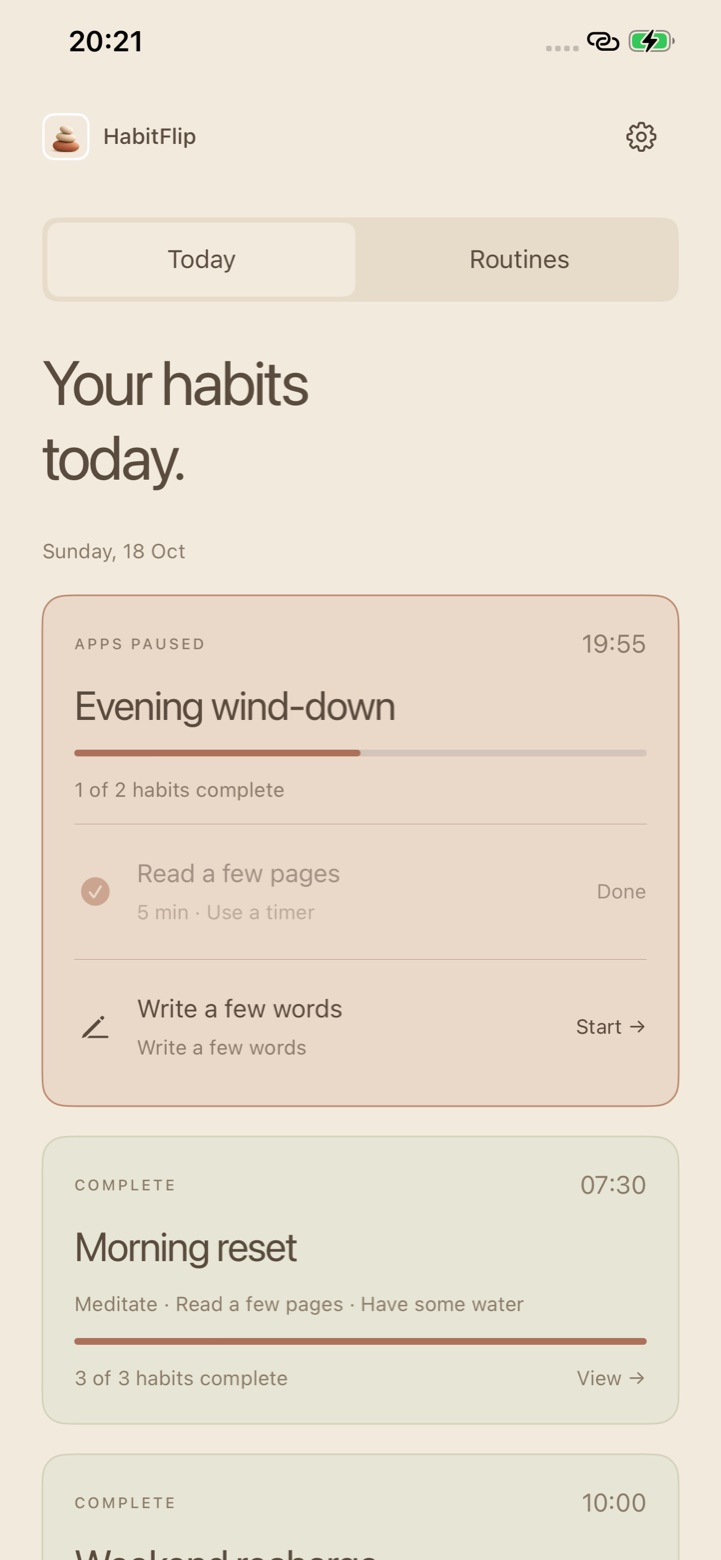
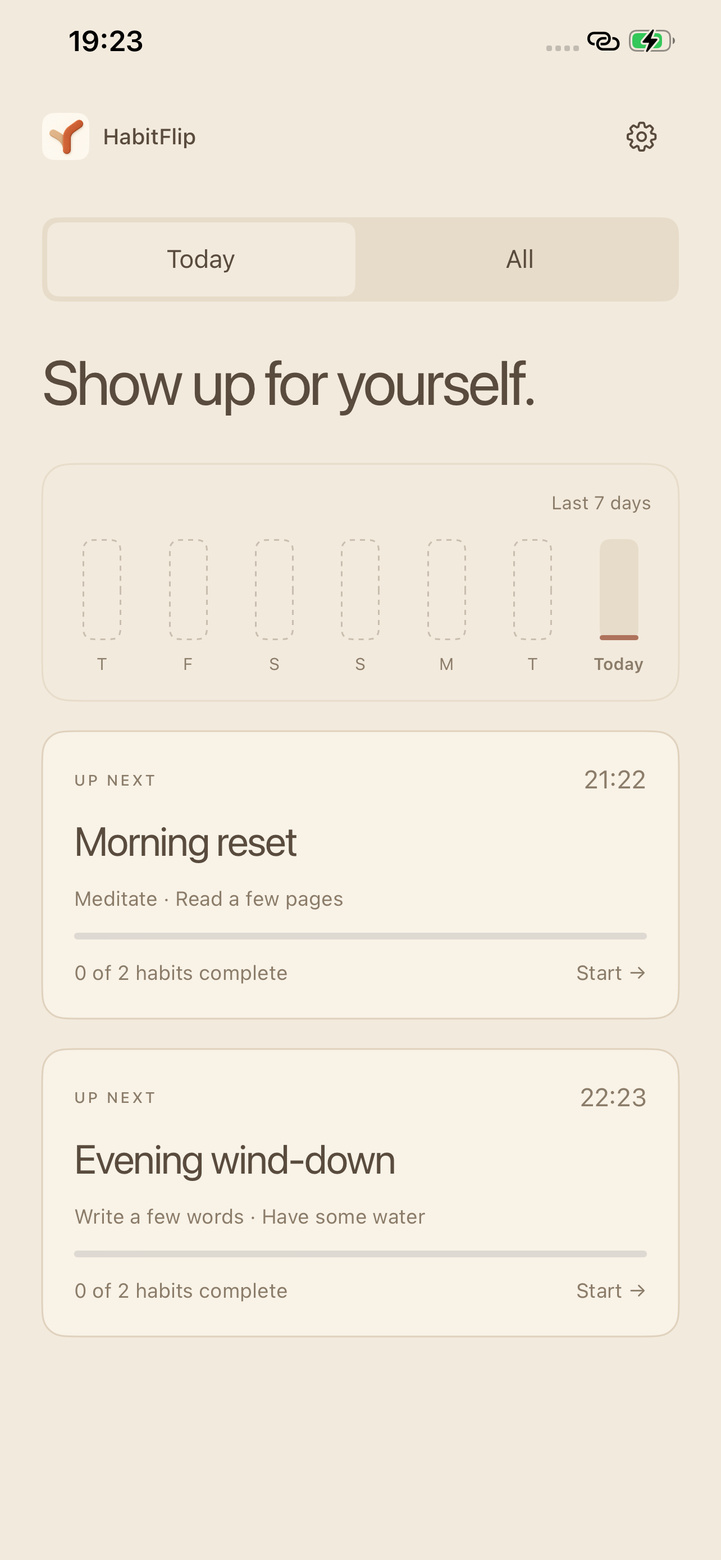
Update HabitFlip website for current onboarding and routine behavior

diff --git a/habitflip/index.html b/habitflip/index.html
@@ -12,15 +12,15 @@
 <header><div class="wrap"><div class="top"><a class="brand" href="./"><img src="assets/app-icon-256.png" alt="" width="42" height="42">HabitFlip</a>
 <nav aria-label="Main navigation"><a href="./#how-it-works">How it works</a><a href="support.html">Support</a><a href="privacy.html">Privacy</a></nav></div></div></header>
 <main id="main" class="wrap">
-<section class="hero"><div><p class="eyebrow">A little space for you</p><h1>Small habits.<br>More room for your day.</h1><p class="lead">Give your habits a place in your day. Let distracting apps wait.</p><p>Create a routine, choose your habits and apps, and set the days and time. Keep a few different routines for the moments that matter to you.</p><a class="button" href="#how-it-works">See how HabitFlip works ↗</a><p class="availability">iOS 17 or later · Preparing for the App Store</p></div><figure class="hero-art"><img src="assets/app-icon-1024.png" alt="Three warm, textured stones resting in a balanced stack" width="1024" height="1024" fetchpriority="high"><figcaption>A little space. A little balance.</figcaption></figure></section>
-<section class="section" id="screens"><div class="section-heading"><p class="eyebrow">See it in use</p><h2>A calm place for<br>your routines.</h2><p class="quiet">Screens from the iPhone app, showing sample routines.</p></div><div class="shots"><figure class="shot"><img src="assets/screenshots/today.jpg" width="721" height="1560" loading="lazy" alt="HabitFlip Today screen showing an Evening wind-down routine with its apps paused and one of two habits done, and a completed Morning reset routine"><figcaption><strong>Today</strong>Your habits for the day, with each routine’s progress and whether its apps are paused.</figcaption></figure><figure class="shot"><img src="assets/screenshots/routines.jpg" width="721" height="1560" loading="lazy" alt="HabitFlip Routines screen listing Evening wind-down, Morning reset, Weekend recharge and Sunday reflection with their schedules and progress"><figcaption><strong>Routines</strong>Every routine in one place, each with its own schedule and guided period.</figcaption></figure><figure class="shot"><img src="assets/screenshots/routine.jpg" width="721" height="1560" loading="lazy" alt="HabitFlip Morning reset routine screen showing 07:30 every day, a 30 day streak, three completed habits and Safari as the app to pause"><figcaption><strong>A routine</strong>Time, days, habits and the apps to pause, all editable in one screen.</figcaption></figure><figure class="shot"><img src="assets/screenshots/habits.jpg" width="721" height="1560" loading="lazy" alt="HabitFlip habit chooser listing Meditate, Stretch or move, Read a few pages, Write a few words, Take medicine and Have some water"><figcaption><strong>Choose habits</strong>Pick from meditation, movement, reading, writing, water, medicine, or your own.</figcaption></figure><figure class="shot"><img src="assets/screenshots/writing.jpg" width="721" height="1560" loading="lazy" alt="HabitFlip Write a few words screen with a short reflection typed in and a Finish routine button"><figcaption><strong>Do the habit</strong>Write a few words, then finish the routine. Your writing isn’t saved.</figcaption></figure><figure class="shot"><img src="assets/screenshots/complete.jpg" width="721" height="1560" loading="lazy" alt="HabitFlip Routine complete screen saying your selected apps are available again"><figcaption><strong>Apps available</strong>When the habits are done, your selected apps are available again.</figcaption></figure></div></section>
+<section class="hero"><div><p class="eyebrow">A little space for you</p><h1>Small habits.<br>More room for your day.</h1><p class="lead">Give your habits a place in your day. Let distracting apps wait.</p><p>Choose your habits, set the days and start time, name your routine, and choose which apps to pause. Keep different routines for the moments that matter to you.</p><a class="button" href="#how-it-works">See how HabitFlip works ↗</a><p class="availability">iOS 17 or later · Preparing for the App Store</p></div><figure class="hero-art"><img src="assets/app-icon-1024.png" alt="HabitFlip app icon" width="1024" height="1024" fetchpriority="high"><figcaption>A little space. A little balance.</figcaption></figure></section>
+<section class="section" id="screens"><div class="section-heading"><p class="eyebrow">See it in use</p><h2>A calm place for<br>your routines.</h2><p class="quiet">Screens from the iPhone app, showing sample routines.</p></div><div class="shots"><figure class="shot"><img src="assets/screenshots/today.jpg" width="721" height="1560" loading="lazy" alt="HabitFlip Today dashboard with weekly progress and two sample routines."><figcaption><strong>Today</strong>Your habits for the day, with each routine’s progress and whether its apps are paused.</figcaption></figure><figure class="shot"><img src="assets/screenshots/routines.jpg" width="721" height="1560" loading="lazy" alt="HabitFlip All tab listing Morning reset and Evening wind-down with their schedules."><figcaption><strong>All routines</strong>Every routine in one place, each with its own schedule and guided period.</figcaption></figure><figure class="shot"><img src="assets/screenshots/routine.jpg" width="721" height="1560" loading="lazy" alt="HabitFlip Edit your routine screen with editable name, schedule, habits and selected apps."><figcaption><strong>A routine</strong>Review your schedule and habits, or add apps to pause.</figcaption></figure><figure class="shot"><img src="assets/screenshots/habits.jpg" width="721" height="1560" loading="lazy" alt="HabitFlip habit chooser with Read a few pages selected and Choose when available."><figcaption><strong>Choose habits</strong>Pick from meditation, movement, reading, writing, water, medicine, or your own.</figcaption></figure><figure class="shot"><img src="assets/screenshots/writing.jpg" width="721" height="1560" loading="lazy" alt="HabitFlip Write a few words screen with a sample reflection and Finish routine button."><figcaption><strong>Do the habit</strong>Write a few words, then finish the routine. Your writing isn’t saved.</figcaption></figure><figure class="shot"><img src="assets/screenshots/complete.jpg" width="721" height="1560" loading="lazy" alt="HabitFlip Routine complete screen confirming the sample routine is complete."><figcaption><strong>Apps available</strong>When the habits are done, your selected apps are available again.</figcaption></figure></div></section>
 <section class="section" id="how-it-works"><div class="section-heading"><p class="eyebrow">Make room for a routine</p><h2>Your habits, at your pace.</h2></div><div class="steps">
-<article class="step"><span class="number">01</span><h3>Make it yours.</h3><p>Choose habits, a schedule, and a 30- or 60-day guided period. Give each routine its own name and selected apps.</p></article>
+<article class="step"><span class="number">01</span><h3>Make it yours.</h3><p>Choose your habits, days and start time, then give your routine a name. Your guided streak starts at 30 scheduled days by default, or you can choose 60. Completion ticks show which setup fields are ready.</p></article>
 <article class="step"><span class="number">02</span><h3>Let your apps wait.</h3><p>Grant Screen Time access and choose apps or categories in Apple’s system picker. On scheduled days, HabitFlip pauses those apps while your routine is due.</p></article>
-<article class="step"><span class="number">03</span><h3>Finish your routine.</h3><p>Complete the chosen habits and confirm the final step. A final timer has a separate Finish routine button. Apps shared with another unfinished routine stay paused.</p></article></div></section>
-<section class="section activities"><div><p class="eyebrow">Something grounding</p><h2>A few moments.<br>A habit of your own.</h2><p>Use Today to see what’s due and Routines to manage your different routines and progress.</p><p class="quiet">Keep a timed habit’s screen open. Leaving or backgrounding resets an unfinished timer.</p></div><ul class="activity-list"><li>Meditation <span>5, 10, or 15 minutes<br>Breathing animation and bundled stream audio</span></li><li>Stretch or move <span>A 3-minute break</span></li><li>Read a few pages <span>5 minutes with your own book</span></li><li>Write a few words <span>Temporary reflection<br>Your words aren’t saved</span></li><li>Water and medicine <span>Self-confirmed habits</span></li><li>A custom habit <span>A timer, confirmation,<br>or short checklist</span></li></ul></section>
+<article class="step"><span class="number">03</span><h3>Finish your routine.</h3><p>Complete your chosen habits and confirm the final step. If your last habit is timed, tap Finish routine after the timer ends. A Lifeline can excuse a routine for the day; an unfinished pause ends at midnight and the day counts as missed. Apps shared with another active routine can stay paused.</p></article></div></section>
+<section class="section activities"><div><p class="eyebrow">Something grounding</p><h2>A few moments.<br>A habit of your own.</h2><p>Use Today to see what's due and All to manage your routines and progress.</p><p class="quiet">Leaving a timed habit's screen or backgrounding the app pauses the timer. Return to resume it or start over.</p></div><ul class="activity-list"><li>Meditation <span>5, 10, or 15 minutes<br>Breathing animation and bundled stream audio</span></li><li>Stretch or move <span>A 3-minute break</span></li><li>Read a few pages <span>5 minutes with your own book</span></li><li>Write a few words <span>Temporary reflection<br>Your words aren’t saved</span></li><li>Water and medicine <span>Self-confirmed habits</span></li><li>A custom habit <span>A timer or completion checkbox</span></li></ul></section>
 <section class="section"><div class="section-heading"><p class="eyebrow">Support that changes with you</p><h2>Practice with guidance.<br>Keep going independently.</h2><p>Track your routine’s progress through its guided period. Afterward, that routine moves into independent practice without its regular app pauses. App pauses can return after missed scheduled days; the app explains the restart rules for your routine.</p><p>Reminders are optional. Choose Yes or Not now while setting up a routine, and manage notification permission from App settings. Reminder frequency reduces during independent practice.</p></div></section>
-<section class="section privacy-band"><div><p class="eyebrow">Your habits, your device</p><h2>Room for you.<br>No account required.</h2></div><div><p>No ads or analytics SDKs. Routine definitions, app selections, and progress stay on your device. HabitFlip has no app-operated backend.</p><p>Your reflection is cleared when you finish, leave its screen, or background the app. It is not a saved journal.</p><a href="privacy.html">Read the privacy policy ↗</a></div></section>
-<section class="section"><div class="section-heading"><p class="eyebrow">On your terms</p><h2>A helpful boundary.<br>You’re still in charge.</h2><p>HabitFlip supports voluntary self-control. Activities are timed or self-reported, and scheduled starts depend on iOS background delivery. Website blocking is not supported.</p><p>When no routine is holding apps paused, App settings lets you revoke Screen Time access. You also retain control of authorization through iOS.</p><p>The medicine habit only confirms a dose already due under your usual routine. It gives no medical or dosing advice.</p><a class="button" href="support.html">Get help and answers ↗</a></div></section>
+<section class="section privacy-band"><div><p class="eyebrow">Your habits, your device</p><h2>Room for you.<br>No account required.</h2></div><div><p>No ads or analytics SDKs. Routine definitions, app selections, and progress stay on your device. HabitFlip has no app-operated backend.</p><p>Your reflection stays in memory while the app is backgrounded. It is discarded when you finish or choose to leave without finishing. Your words are not saved as a journal.</p><a href="privacy.html">Read the privacy policy ↗</a></div></section>
+<section class="section"><div class="section-heading"><p class="eyebrow">On your terms</p><h2>A helpful boundary.<br>You’re still in charge.</h2><p>HabitFlip supports voluntary self-control. Activities are timed or self-reported, and scheduled starts depend on iOS background delivery. Website blocking is not supported.</p><p>A Lifeline lets you excuse a routine for the day and release its pause. You have three uses across a rolling seven-day window. When no routine holds apps paused, App settings lets you revoke Screen Time access. You also retain control of authorization through iOS Settings.</p><p>The medicine habit only confirms a dose already due under your usual routine. It gives no medical or dosing advice.</p><a class="button" href="support.html">Get help and answers ↗</a></div></section>
 </main>
 <div class="wrap"><footer class="footer"><span>© 2026 HabitFlip</span><nav aria-label="Footer"><a href="support.html">Support</a><a href="privacy.html">Privacy</a><a href="terms.html">Terms</a><a href="credits.html">Credits</a></nav></footer></div></body></html>

diff --git a/habitflip/support.html b/habitflip/support.html
@@ -11,16 +11,16 @@
 </head><body><a class="skip" href="#main">Skip to content</a>
 <header><div class="wrap"><div class="top"><a class="brand" href="./"><img src="assets/app-icon-256.png" alt="" width="42" height="42">HabitFlip</a>
 <nav aria-label="Main navigation"><a href="./#how-it-works">How it works</a><a href="support.html">Support</a><a href="privacy.html">Privacy</a></nav></div></div></header>
-<main id="main" class="wrap legal"><p class="eyebrow">A little help</p><h1>HabitFlip support</h1><p>For help, feedback, or privacy questions, email <a href="mailto:ammar.ofc@gmail.com">ammar.ofc@gmail.com</a>.</p><a class="button" href="mailto:ammar.ofc@gmail.com?subject=HabitFlip%20support">Email support ↗</a><p class="quiet">Include your device model, iOS version, app version, expected result, and what happened. Please leave out private reflections, medication details, and sensitive screenshots.</p><h2>Common questions</h2><details open><summary>How do I create a routine?</summary><p>Open Routines and choose New routine. Choose habits, allow Screen Time access if requested, select apps or categories in Apple’s picker, set a name and schedule, choose a 30- or 60-day guided period, and choose whether to allow reminders. Review your choices and save. Each routine can have its own habits, schedule, and app selection.</p></details>
-<details><summary>How do my apps become available again?</summary><p>Finish the habits required by the routine. Confirmation, writing, and checklist habits have a final confirmation action; if the last habit is timed, tap Finish routine after the timer ends. Another unfinished routine can keep shared apps paused. Ending a monitoring interval or simply waiting does not release an unfinished routine.</p></details>
-<details><summary>Why did my timer or writing disappear?</summary><p>Keep the habit screen open. Leaving it or backgrounding HabitFlip resets an unfinished timer and clears temporary writing and checklist responses. Meditation also stops on an audio interruption or headphone disconnection. Completed habit progress stays saved.</p></details>
+<main id="main" class="wrap legal"><p class="eyebrow">A little help</p><h1>HabitFlip support</h1><p>For help, feedback, or privacy questions, email <a href="mailto:ammar.ofc@gmail.com">ammar.ofc@gmail.com</a>.</p><a class="button" href="mailto:ammar.ofc@gmail.com?subject=HabitFlip%20support">Email support ↗</a><p class="quiet">Include your device model, iOS version, app version, expected result, and what happened. Please leave out private reflections, medication details, and sensitive screenshots.</p><h2>Common questions</h2><details open><summary>How do I create a routine?</summary><p>Tap Create my first routine, or open All and choose + New routine. Choose your habits and tap Choose when. Select the days and start time, then enter a name on Repetition &amp; Streak. The guided streak defaults to 30 scheduled days; choose 60 if you prefer. Completion ticks show which fields are ready. Pick apps becomes available once the required values are valid. Grant Screen Time access if requested, choose apps or categories in Apple's picker, and choose whether to enable reminders. Review your choices and tap Schedule Routine.</p></details>
+<details><summary>How do my apps become available again?</summary><p>Complete the habits required by the routine and confirm the final action. If the last habit is timed, tap Finish routine after the timer ends. A Lifeline can excuse the routine for the day and release its pause. An unfinished routine's pause ends at midnight, and that day counts as missed. Another routine can keep shared apps paused until its own hold ends.</p></details>
+<details><summary>What happens if I leave a timer or reflection?</summary><p>Leaving a timed habit's screen or backgrounding HabitFlip pauses the timer. Return to resume it or start over. Audio interruptions and headphone disconnection also pause meditation. Paused timers and unfinished reflection text are held in memory, so do not rely on them surviving an app restart. Reflection text stays while the app is backgrounded, but is discarded when you finish or choose to leave without finishing. Older saved checklist habits clear unfinished responses when you leave or background the app. Completed habit progress stays saved.</p></details>
 <details><summary>My scheduled routine did not start. What should I check?</summary><p>Check Screen Time access, selected apps or categories, the routine’s days and time, and whether the routine is paused or in independent practice. After a device restart, unlock it once. Reopen HabitFlip to refresh routines and repair monitoring. iOS controls background callback delivery, so scheduled starts can vary. A reminder is separate from app shielding.</p></details>
-<details><summary>Can I edit, copy, pause, or remove a routine?</summary><p>Open a routine from Routines. Its detail page provides editing controls and Routine actions for copying, pausing, and removing. Some changes are unavailable while that routine holds apps paused; finish its current habits first. Finishing one routine does not release apps held by another.</p></details>
+<details><summary>Can I edit, copy, pause, or remove a routine?</summary><p>Open All and choose a routine. If its habit screen is shown, tap Edit routine. The edit screen lets you change its name, schedule and habits, or add apps to its selection, then save your changes. Existing selected apps cannot be removed from a saved routine. It also offers Make a copy, Pause routine or Resume routine, and Remove routine. Some changes are unavailable while the routine holds apps paused. Finishing one routine does not release apps held by another.</p></details>
 <details><summary>What happens after the guided period?</summary><p>A routine moves to independent practice after its 30- or 60-day guided period. Its regular app pauses stop, reminders become less frequent, and they stop within its next 14 scheduled days. App pauses can return after missed scheduled days. Open the routine’s explanation for the applicable restart rules. Other routines can still pause apps.</p></details>
 <details><summary>How do I manage permissions and reminders?</summary><p>Open App settings from the gear icon. When no routine holds apps paused, Revoke Screen Time access opens a confirmation; Keep access cancels it. Allow Screen Time access requests permission again. Manage notifications or Turn off notifications opens iOS notification settings. During routine setup, Not now skips reminders for that routine.</p></details>
-<details><summary>I need to stop enforcement without completing my habits.</summary><p>HabitFlip is voluntary self-control. You retain control of Screen Time authorization through iOS Settings. The in-app revoke button is disabled while a routine holds apps paused. Revoking permission does not delete saved routines or requirements, and reauthorizing may restore unfinished pauses. There is no PIN or emergency-unlock button.</p></details>
+<details><summary>I need to stop enforcement without completing my habits.</summary><p>Open the active routine and tap the Lifeline control, then confirm Use Lifeline to excuse that routine for the day and release its pause. You have three Lifeline uses across a rolling seven-day window. Using one does not count as a missed day; other routines can still hold the same apps paused. HabitFlip is voluntary self-control, and you retain control of Screen Time access in iOS Settings. The in-app revoke button is unavailable while any routine holds apps paused. Revoking access does not delete routines or progress, and granting access again can restore applicable unfinished pauses.</p></details>
 <details><summary>Why do I see a storage error?</summary><p>Unlock the phone after a restart, reopen HabitFlip, and try again. If the error continues, send support its wording, your app version, and steps to reproduce, without private content. Avoid deleting the app as a first fix: Keychain data may survive reinstall.</p></details>
-<details><summary>What is stored, and how do I remove it?</summary><p>Routines, selected app tokens, and progress stay locally in a device-only shared Keychain item; migration files can remain in the shared app container. Remove inactive routines through Routine actions. There is no single erase-all-data control, and Keychain records can survive uninstall. See the privacy policy for retention details.</p></details>
+<details><summary>What is stored, and how do I remove it?</summary><p>Routines, selected app tokens, progress and Lifeline-use records stay locally in a device-only shared Keychain item. Migration files can remain in the shared app container. To remove an inactive routine, open All, choose the routine, open Edit routine if shown, and select Remove routine. There is no single erase-all-data control. Keychain records can survive uninstall. See the privacy policy for retention details.</p></details>
 <details><summary>Does the medicine habit tell me what to take?</summary><p>No. It only lets you confirm a dose already due under your existing routine. It provides no diagnosis, treatment, or dosing advice and is not a medication reminder guarantee.</p></details>
 <details><summary>What devices are supported?</summary><p>HabitFlip is for iPhone and requires iOS 17 or later. Screen Time shielding requires a compatible physical device. Final supported devices will be listed on the App Store. HabitFlip does not support website blocking.</p></details>
 <p>Read the <a href="privacy.html">privacy policy</a> and <a href="credits.html">audio credits</a>.</p></main>

diff --git a/habitflip/privacy.html b/habitflip/privacy.html
@@ -12,18 +12,18 @@
 <header><div class="wrap"><div class="top"><a class="brand" href="./"><img src="assets/app-icon-256.png" alt="" width="42" height="42">HabitFlip</a>
 <nav aria-label="Main navigation"><a href="./#how-it-works">How it works</a><a href="support.html">Support</a><a href="privacy.html">Privacy</a></nav></div></div></header>
 <main id="main" class="wrap legal">
-<p class="eyebrow">Your habits, your device</p><h1>Privacy policy</h1><p class="updated">Last updated: 18 October 2026</p>
+<p class="eyebrow">Your habits, your device</p><h1>Privacy policy</h1><p class="updated">Last updated: 28 October 2026</p>
 <p>HabitFlip is an independent app by Ammar. For privacy questions, email <a href="mailto:ammar.ofc@gmail.com">ammar.ofc@gmail.com</a>.</p>
 <p>HabitFlip requires no account and has no app-operated backend, advertising, tracking, or analytics SDKs. It does not upload your routines, app selections, habits, progress, or reflections to us.</p>
 <h2>Screen Time access</h2><p>With your permission, HabitFlip uses Apple’s Family Controls, Managed Settings, and Device Activity frameworks to pause the apps or categories you choose. Selections are opaque tokens supplied by Apple’s picker; HabitFlip does not use the separate app-and-website-usage data-access capability to obtain readable application identifiers or browsing information. Apple’s system components display selected app labels. Website blocking is not supported.</p>
 <h2>Information on your device</h2><ul>
-<li><strong>Routines and progress:</strong> routine names, habits, schedules, selected app/category tokens, reminder choices, guided-period settings, completion history, and held habit requirements are stored in a shared, device-only Keychain item. The app and its monitoring extension use the same access group. This item is accessible after the first device unlock following a restart and is not configured for iCloud Keychain synchronization.</li>
+<li><strong>Routines and progress:</strong> routine names, habits, schedules, selected app/category tokens, reminder choices, guided-period settings, completion history, held habit requirements, and Lifeline-use records are stored in a shared, device-only Keychain item. Lifeline records include the routine identifier, routine name and use date so the app can calculate the remaining allowance. The app and its monitoring extension use the same access group. This item is accessible after the first device unlock following a restart and is not configured for iCloud Keychain synchronization.</li>
 <li><strong>Shared app files:</strong> an App Group container holds migration backups and older selections, schedules, or habit definitions when present. Legacy session data may remain as a migration source.</li>
 <li><strong>Preferences:</strong> local preferences remember setup and prior Screen Time authorization.</li>
-<li><strong>Reflection and checklist input:</strong> unfinished reflection text and checklist responses are held in memory and cleared when you finish, leave the activity, or background the app. Habit completion is saved; the writing and individual checklist responses are not saved as a history.</li>
+<li><strong>Temporary activity input:</strong> unfinished reflection text, paused timer progress and unfinished responses for older saved checklist habits are held in memory. Reflection text remains while the app is backgrounded, but is discarded when you finish or choose to leave without finishing. A timer pauses when you leave its screen or background the app and can be resumed or restarted while that in-memory state remains available. Unfinished checklist responses are cleared when you leave the activity or background the app. Habit completion is saved; reflection text and individual checklist responses are not saved as a history. In-memory activity input can be lost if the app is terminated or restarted.</li>
 <li><strong>Diagnostics:</strong> local scheduling timestamps or status messages may be retained for troubleshooting. They do not include reflection text or activity responses.</li></ul>
 <h2>Optional reminders</h2><p>If you allow notifications, HabitFlip schedules local reminders on your device. Reminder content includes the routine name and a short prompt, so the name may appear on your lock screen according to your notification settings. Choose Not now during setup to skip reminders for that routine, or manage permission in App settings and iOS Settings. HabitFlip does not operate a remote push-notification service.</p>
-<h2>Retention and your choices</h2><p>You can edit, pause, or remove routines when they are not holding an active app pause. Removing a routine removes its entry, selected apps, and history from the current routine archive. Existing migration files may remain. Finishing a routine releases its active hold but retains its routine definition and completion progress.</p><p>App settings offers Revoke Screen Time access when no routine is holding apps paused. You also control authorization through iOS. Revoking access does not erase saved routines or progress; granting access again can restore enforcement for unfinished routines.</p><p>There is no single erase-all-data control. Keychain items can survive uninstall, so deleting and reinstalling HabitFlip may restore saved routines or active requirements. Ordinary app-file backups and restoration are controlled by iOS and your Apple settings. Device-only Keychain items do not migrate to another device. We cannot access or remotely erase data stored only on your device.</p>
+<h2>Retention and your choices</h2><p>You can edit, pause, or remove routines when they are not holding an active app pause. Removing a routine removes its entry, selected apps, and history from the current routine archive. Existing migration files may remain. Finishing a routine releases its active hold but retains its routine definition and completion progress.</p><p>Using a Lifeline excuses the routine for the day and releases its current hold. A local use record is kept to calculate the rolling seven-day allowance. An unfinished routine's hold also ends at midnight and the day counts as missed. Other routines can continue to hold the same apps paused.</p><p>App settings offers Revoke Screen Time access when no routine is holding apps paused. You also control authorization through iOS. Revoking access does not erase saved routines or progress; granting access again can restore enforcement for unfinished routines.</p><p>There is no single erase-all-data control. Keychain items can survive uninstall, so deleting and reinstalling HabitFlip may restore saved routines or active requirements. Ordinary app-file backups and restoration are controlled by iOS and your Apple settings. Device-only Keychain items do not migrate to another device. We cannot access or remotely erase data stored only on your device.</p>
 <h2>Audio and links</h2><p>Meditation audio is bundled and does not stream. Opening Privacy, Support, or audio-credit links makes a normal web request to that website; its operator handles the visit under its own policy. Apple may process system-service and diagnostic information according to your device settings and Apple’s policies.</p>
 <h2>Support email</h2><p>If you email support, we receive your email address and information you choose to include. Our email provider processes those messages. We use them to respond and troubleshoot, retain them while needed for that purpose or applicable obligations, and do not use them for advertising. Contact us to request access, correction, or deletion of support correspondence. Please omit private reflections, medication details, and sensitive screenshots.</p>
 <h2>This website</h2><p>These pages use no analytics scripts, embedded trackers, third-party fonts, or site-set cookies. GitHub Pages hosts the site. GitHub may process visitor information, including IP addresses, to operate and secure hosting; see <a href="https://docs.github.com/en/site-policy/privacy-policies/github-general-privacy-statement">GitHub’s privacy statement</a>.</p>

diff --git a/habitflip/credits.html b/habitflip/credits.html
@@ -15,7 +15,7 @@
 <meta property="og:description" content="Attribution and license for the bundled gentle stream meditation recordings in HabitFlip.">
 <meta property="og:url" content="https://ammarisme.github.io/app-docs/habitflip/credits.html">
 <meta property="og:image" content="https://ammarisme.github.io/app-docs/habitflip/assets/app-icon-1024.png">
-<meta property="og:image:alt" content="Three balanced stones, the HabitFlip app icon">
+<meta property="og:image:alt" content="HabitFlip app icon">
 <meta name="twitter:card" content="summary">
 </head>
 <body>

diff --git a/habitflip/terms.html b/habitflip/terms.html
@@ -15,7 +15,7 @@
 <meta property="og:description" content="What to expect when using HabitFlip for voluntary app pauses and personal routines.">
 <meta property="og:url" content="https://ammarisme.github.io/app-docs/habitflip/terms.html">
 <meta property="og:image" content="https://ammarisme.github.io/app-docs/habitflip/assets/app-icon-1024.png">
-<meta property="og:image:alt" content="Three balanced stones, the HabitFlip app icon">
+<meta property="og:image:alt" content="HabitFlip app icon">
 <meta name="twitter:card" content="summary">
 </head>
 <body>
